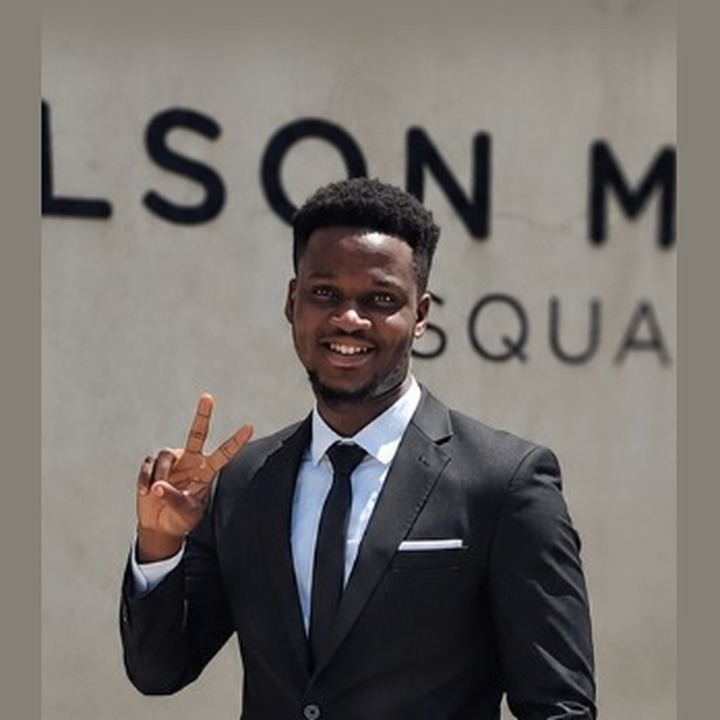
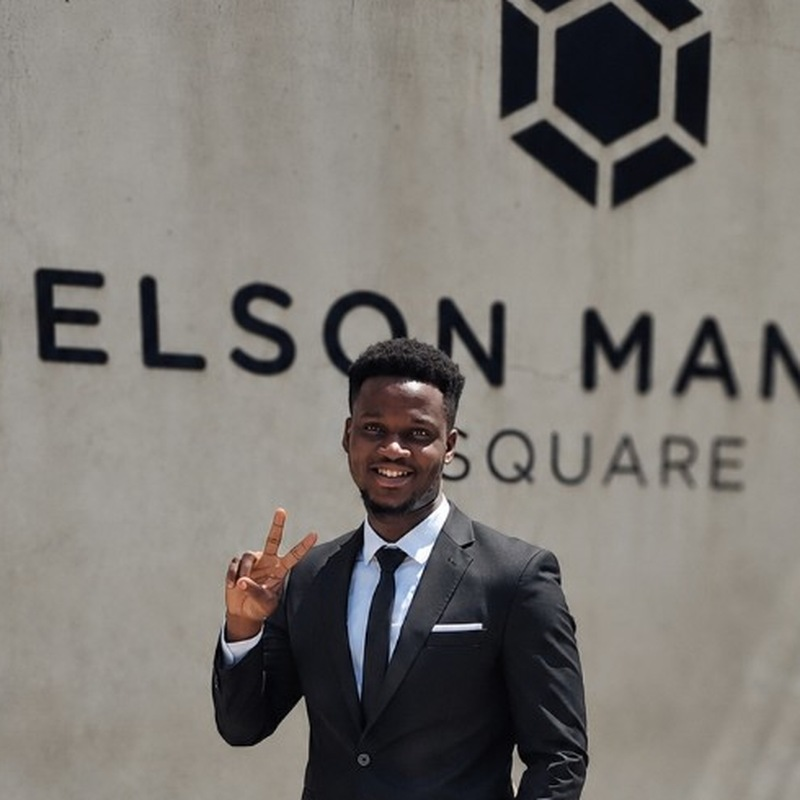
Fix founder photo framing after bad crop edits.
Restore clean full-body and headshot crops so Jamal shows clearly on About and team cards.

diff --git a/src/components/public/agency-landing.tsx b/src/components/public/agency-landing.tsx
@@ -693,7 +693,7 @@ export function AgencyLanding({ mode, view: viewProp, portfolioItems, previewTar
               src="/brand/steward-jamal-founder.jpg"
               alt="Jamal Steward, CEO and Founder of The Steward Jamal Agency"
               fill
-              className="object-cover object-top"
+              className="object-cover object-[center_12%]"
               sizes="(max-width: 1024px) 90vw, 420px"
               priority={view === "about"}
             />
@@ -1063,7 +1063,7 @@ export function AgencyLanding({ mode, view: viewProp, portfolioItems, previewTar
                     src={member.photo}
                     alt={member.name}
                     fill
-                    className="object-cover object-top"
+                    className="object-cover object-[center_20%]"
                     sizes="112px"
                   />
                 </div>
